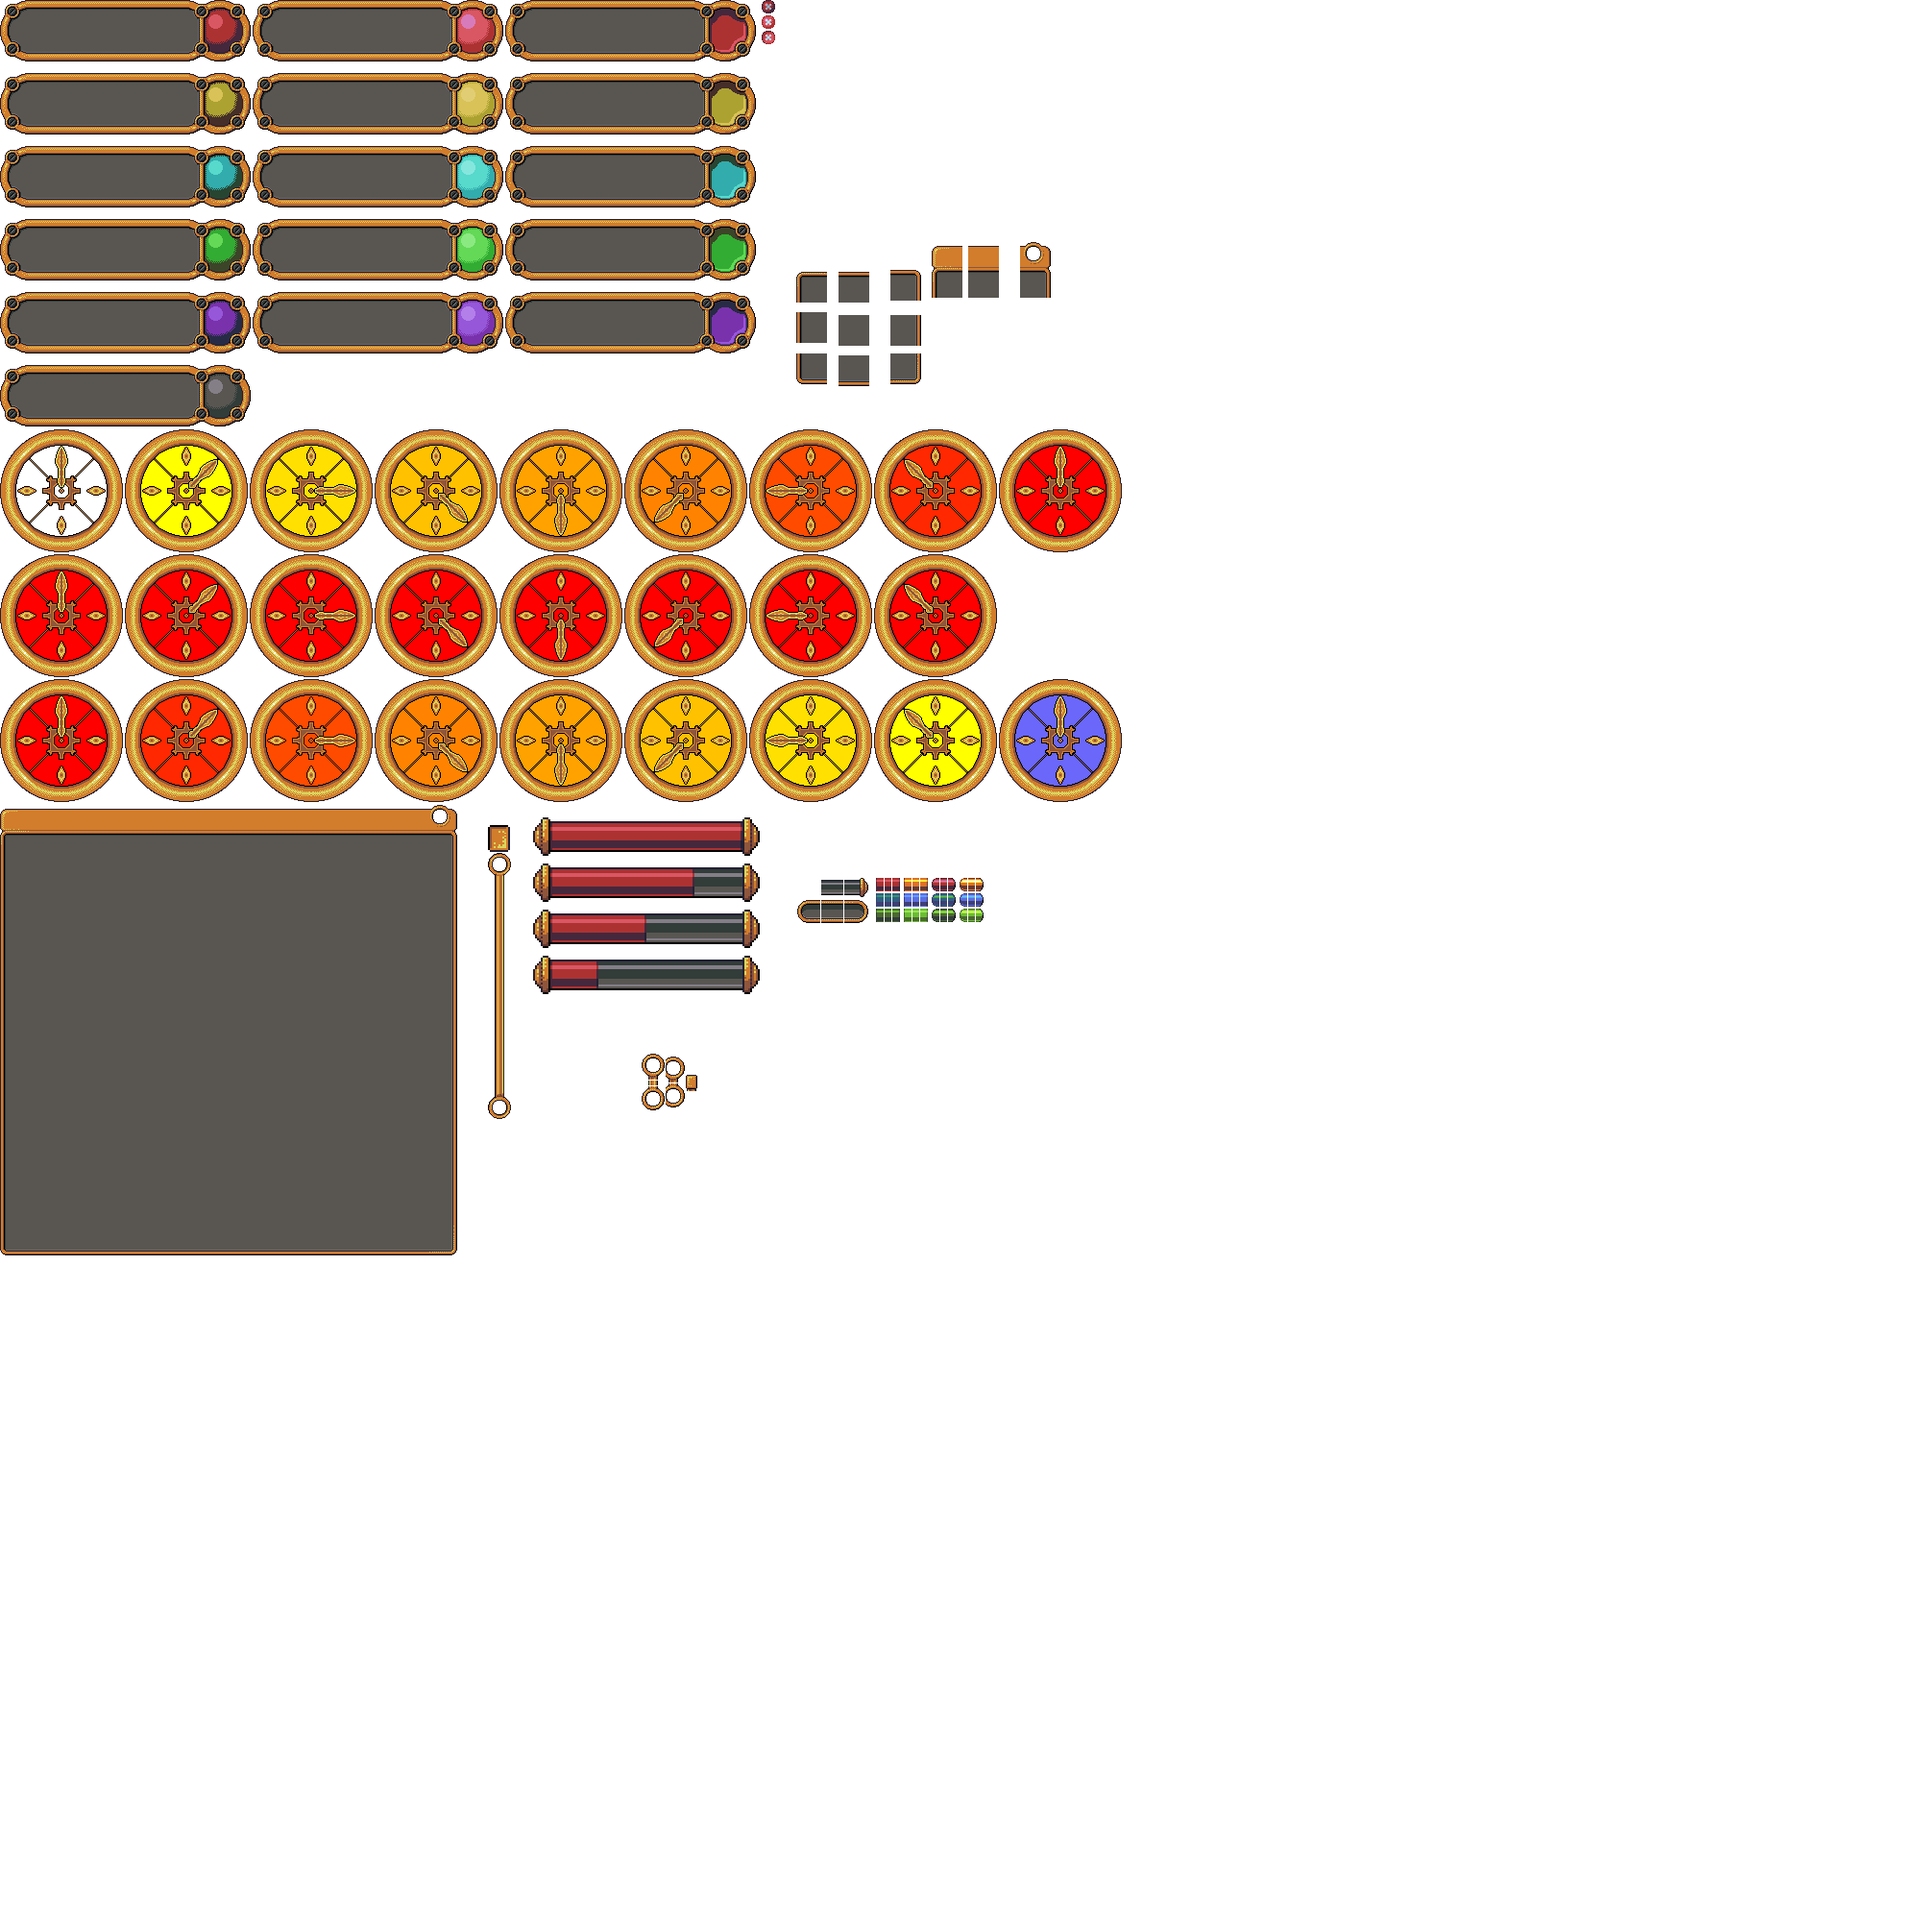
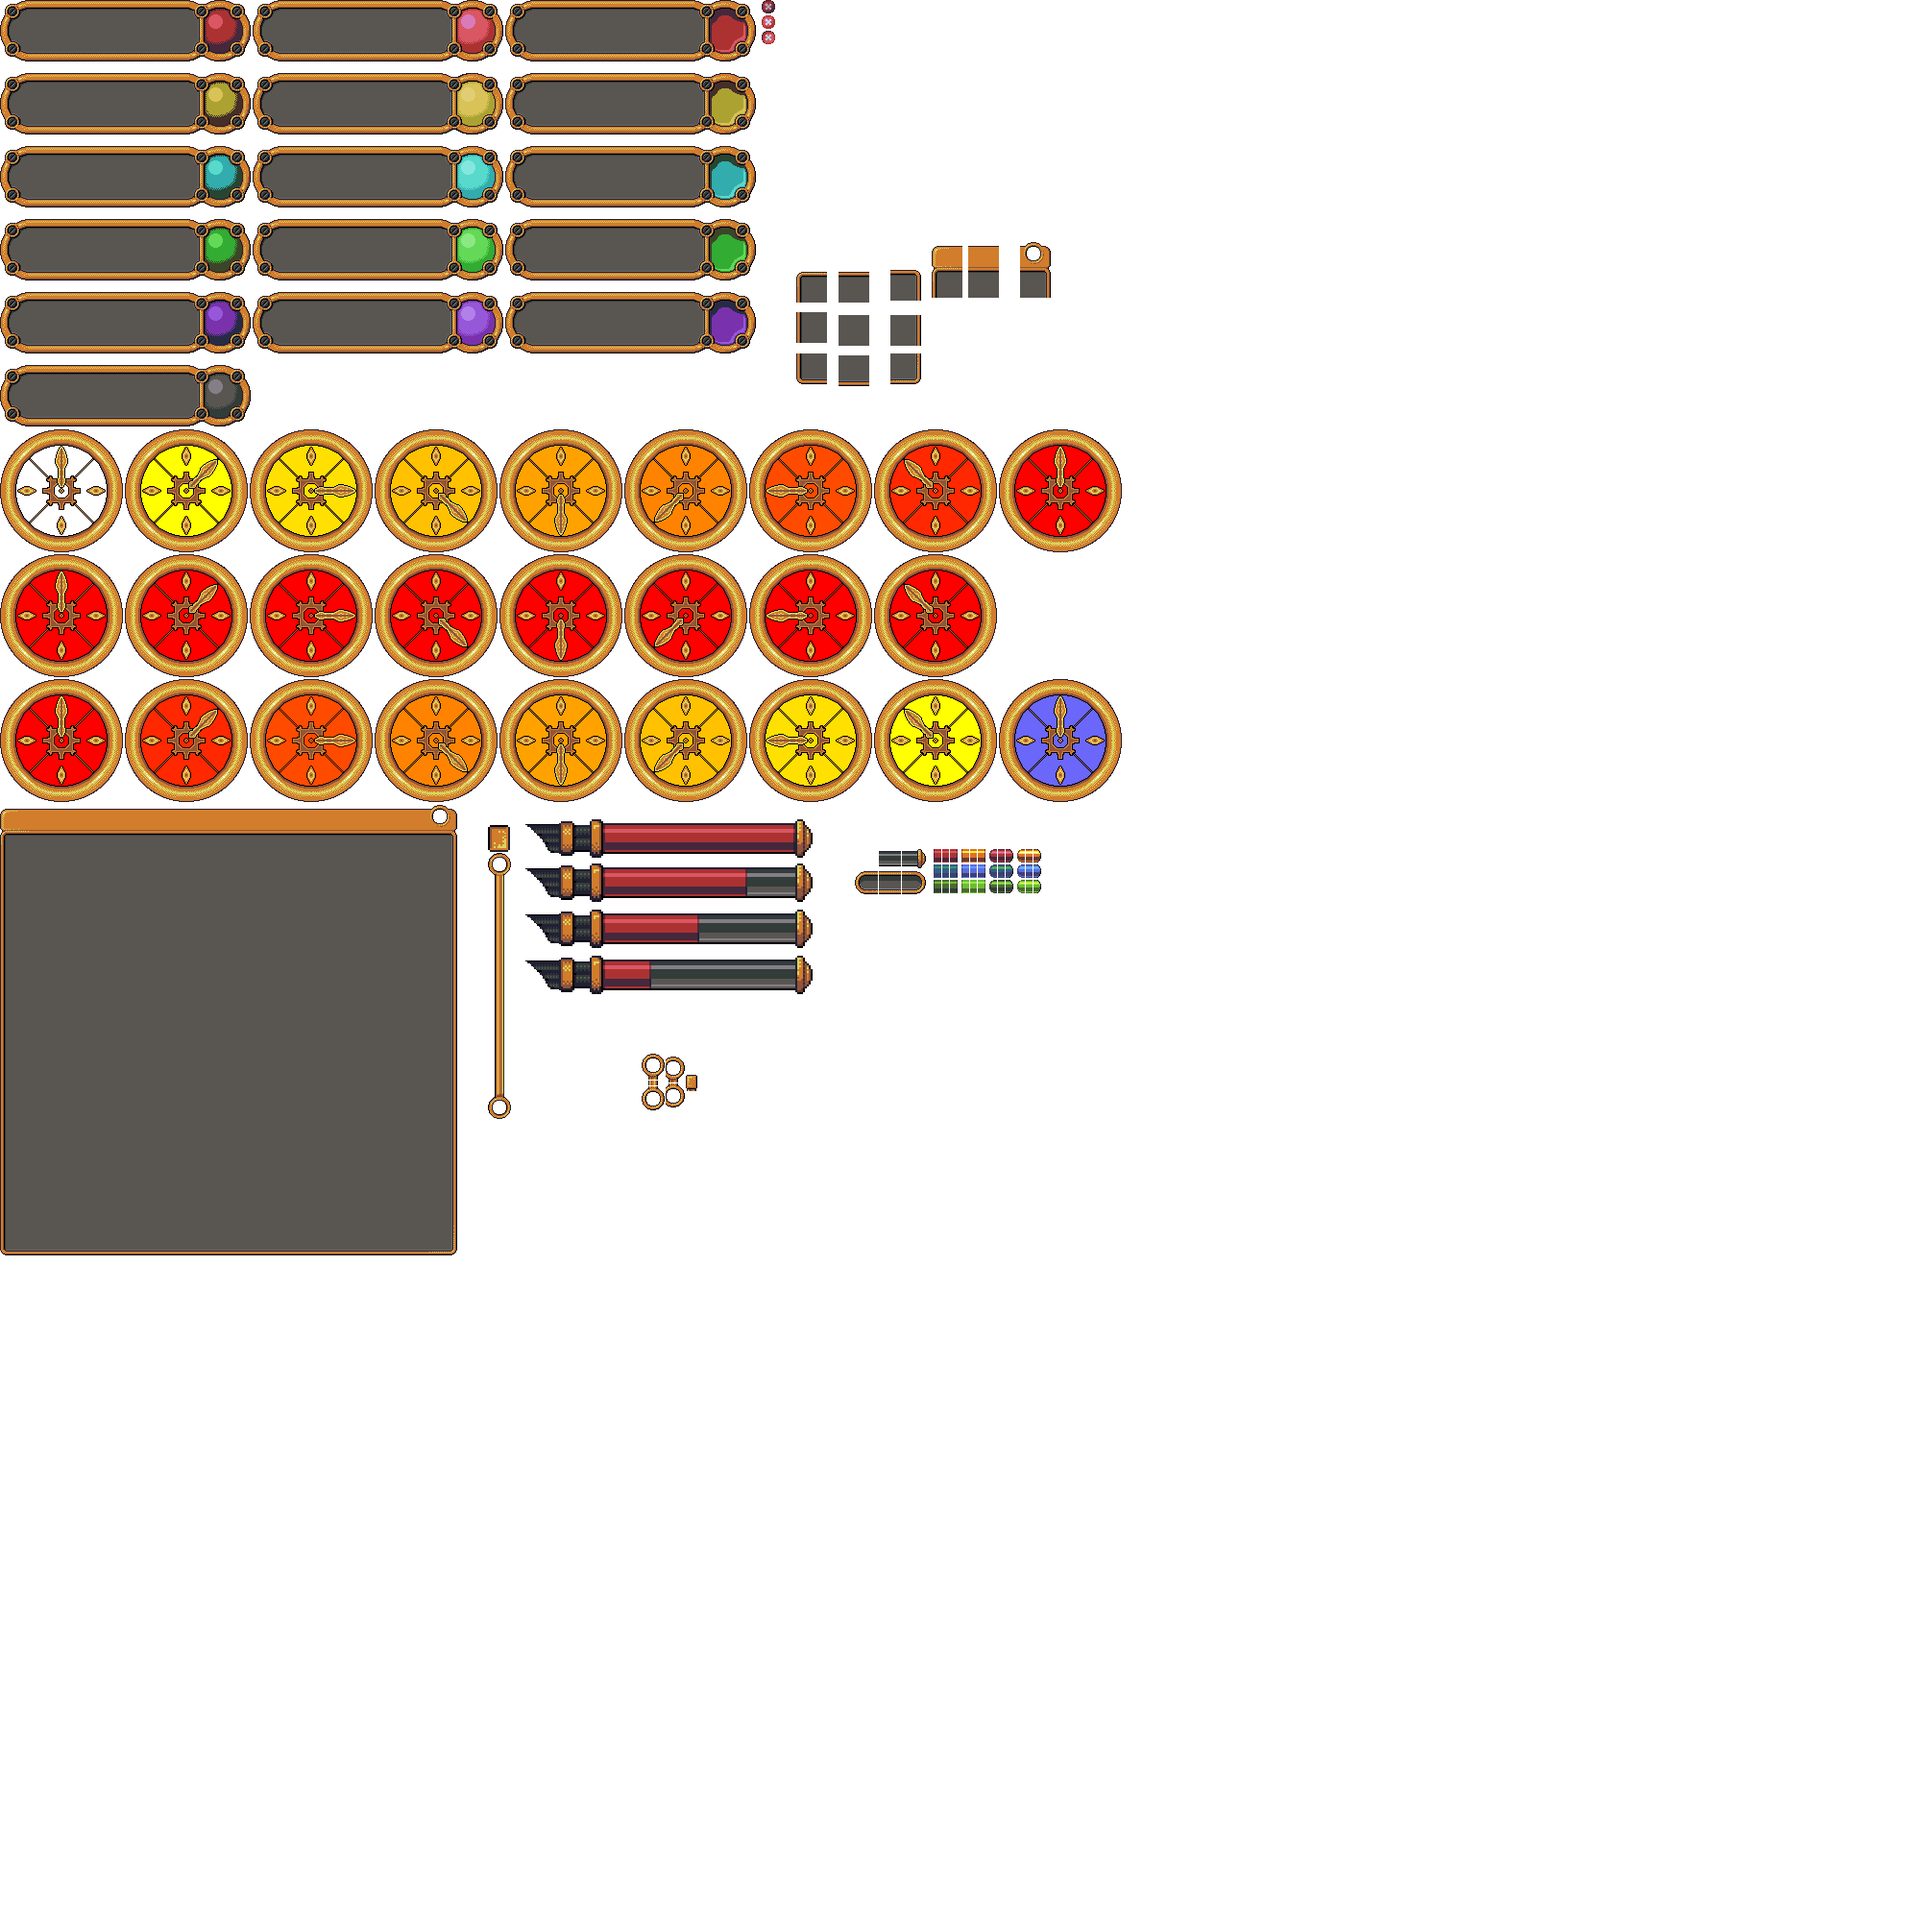
added lives to the player (they dont work since the player dies during the entire fading process aka more than one frame)

Changed region(s): [[0.279, 0.403, 0.558, 0.527]]

diff --git a/Dev_class5_Orthogonal/Motor2D/j1Gui.cpp b/Dev_class5_Orthogonal/Motor2D/j1Gui.cpp
@@ -22,6 +22,7 @@
 #include "InheritedLabel.h"
 #include "UIClock.h"
 #include "Scrollbar.h"
+#include "LifeBar.h"
 
 j1Gui::j1Gui() : j1Module()
 {
@@ -190,9 +191,16 @@ bool j1Gui::CleanUp()
 
 
 
-InheritedImage* j1Gui::AddImage(SDL_Rect& position, iPoint positionOffset, SDL_Rect & section, bool draggable)
+InheritedImage* j1Gui::AddImage(SDL_Rect& position, iPoint positionOffset, SDL_Rect& section, bool draggable)
 {
 	InheritedImage* ret = new InheritedImage(position, positionOffset, section, draggable);
+	elements.add(ret);
+	return ret;
+}
+
+LifeBar* j1Gui::AddLifebar(SDL_Rect& position, iPoint positionOffset, SDL_Rect& section, bool draggable)
+{
+	LifeBar* ret = new LifeBar(position, positionOffset, section, draggable);
 	elements.add(ret);
 	return ret;
 }
@@ -516,10 +524,30 @@ UIElement* j1Gui::Load_Image_fromXML(pugi::xml_node node)
 	iPoint relativePos = { node.child("relativePosition").attribute("x").as_int(),node.child("relativePosition").attribute("y").as_int() };
 	SDL_Rect image_section = { node.child("image_section").attribute("x").as_int(), node.child("image_section").attribute("y").as_int(), node.child("image_section").attribute("w").as_int(), node.child("image_section").attribute("h").as_int() };
 	bool draggable = node.child("draggable").attribute("value").as_bool();
-	Image* added = AddImage(position, relativePos, image_section, draggable);
-	if (!node.child("active").attribute("value").as_bool(true))
-		added->active = false;
-	return added;
+
+	if (node.child("lifebar").attribute("value").as_bool(false))
+	{
+		LifeBar* added = AddLifebar(position, relativePos, image_section, draggable);
+
+		Load_LifeBar_formXML(node, added);
+
+		if (!node.child("active").attribute("value").as_bool(true))
+			added->active = false;
+
+		App->scene->lifebar = added;
+
+		return added;
+	}
+	else
+	{
+		Image* added = AddImage(position, relativePos, image_section, draggable);
+
+		if (!node.child("active").attribute("value").as_bool(true))
+			added->active = false;
+
+
+		return added;
+	}
 }
 
 UIElement* j1Gui::Load_AlterantiveImage_fromXML(pugi::xml_node node)
@@ -625,6 +653,14 @@ UIElement * j1Gui::Load_LabelledImage_fromXML(pugi::xml_node node)
 	if (!node.child("active").attribute("value").as_bool(true))
 		ret->active = false;
 	return ret;
+}
+
+void j1Gui::Load_LifeBar_formXML(pugi::xml_node node, LifeBar* imageData)
+{
+	imageData->threeLivesImageSection = { node.child("threeLives").attribute("x").as_int(), node.child("threeLives").attribute("y").as_int(), node.child("threeLives").attribute("w").as_int(), node.child("threeLives").attribute("h").as_int() };
+	imageData->twoLivesImageSection = { node.child("twoLives").attribute("x").as_int(), node.child("twoLives").attribute("y").as_int(), node.child("twoLives").attribute("w").as_int(), node.child("twoLives").attribute("h").as_int() };
+	imageData->lastLifeImageSection = { node.child("lastLife").attribute("x").as_int(), node.child("lastLife").attribute("y").as_int(), node.child("lastLife").attribute("w").as_int(), node.child("lastLife").attribute("h").as_int() };
+
 }
 
 Animation j1Gui::LoadPushbacks_fromXML(pugi::xml_node node)

diff --git a/Dev_class5_Orthogonal/Motor2D/j1Gui.h b/Dev_class5_Orthogonal/Motor2D/j1Gui.h
@@ -63,6 +63,7 @@ class Scrollbar;
 struct SDL_Rect;
 struct SDL_Texture;
 class Animation;
+class LifeBar;
 // ---------------------------------------------------
 class j1Gui : public j1Module
 {
@@ -95,6 +96,7 @@ public:
 	InheritedInteractive* AddInteractive(SDL_Rect& position, iPoint positionOffset, SDL_Rect& size,	 InteractiveType type, j1Module* callback, bool draggable = false);
 	InheritedLabel* AddLabel(SDL_Rect& position, iPoint positionOffset, p2SString fontPath, SDL_Color textColor, p2SString label, int size = 12, bool draggable = false);
 	InheritedImage* AddImage(SDL_Rect& position, iPoint positionOffset, SDL_Rect& section, bool draggable = false);
+	LifeBar* AddLifebar(SDL_Rect& position, iPoint positionOffset, SDL_Rect& section, bool draggable = false);
 
 	InteractiveImage* AddInteractiveImage(SDL_Rect& position, iPoint positionOffsetA, iPoint positionOffsetB, SDL_Rect image_section, InteractiveType type, j1Module* callback, bool draggable = false);
 	InteractiveLabel* AddInteractiveLabel(SDL_Rect& position, iPoint positionOffsetA, iPoint positionOffsetB, p2SString fontPath, SDL_Color textColor, p2SString label, int size, InteractiveType type, j1Module* callback, bool draggable = false);
@@ -122,6 +124,7 @@ public:
 	UIElement* Load_InteractiveImage_fromXML(pugi::xml_node node, j1Module* callback);
 	UIElement* Load_Scrollbar_fromXML(pugi::xml_node node);
 	UIElement* Load_LabelledImage_fromXML(pugi::xml_node node);
+	void Load_LifeBar_formXML(pugi::xml_node node, LifeBar* imageData);
 	Animation LoadPushbacks_fromXML(pugi::xml_node node);
 
 

diff --git a/Dev_class5_Orthogonal/Motor2D/Player.cpp b/Dev_class5_Orthogonal/Motor2D/Player.cpp
@@ -7,11 +7,15 @@
 #include "j1Audio.h"
 #include "j1Input.h"
 #include "j1SceneChange.h"
+#include "j1SceneSwitch.h"
 #include "j1Scene.h"
+#include "j1IntroScene.h"
 #include "j1EntityController.h"
+#include "LifeBar.h"
 
 Player::Player() : Entity(entityType::PLAYER)
 {
+	lives = 4;
 }
 
 
@@ -215,7 +219,6 @@ bool Player::Update(float dt)
 		PositionCollider();
 	}
 
-	LOG("Current animation Speed: %f", Current_Animation->speed);
 	/*LOG("CurrenFrame: %f", Current_Animation->GetCurrentFrameinFloat());
 	LOG("CurrentAnimation speed: %f", Current_Animation->speed);*/
 	return true;
@@ -225,7 +228,14 @@ bool Player::PostUpdate()
 {
 	if (!alive)
 	{
-		App->scenechange->ChangeMap(App->scene->currentMap, App->scene->fade_time);
+		lives -= 1;
+		LOG("lives %i", lives);
+		App->scene->playerLives = lives;
+		if (lives == 0)
+			App->scenechange->ChangeMap(App->scene->currentMap, App->scene->fade_time);
+		else
+			App->sceneswitch->SwitchScene(App->scene, App->introscene);
+
 	}
 
 	PositionCameraOnPlayer();
@@ -327,6 +337,7 @@ void Player::Restart()
 				}
 	isDying = false;
 	alive = true;
+
 
 }
 

diff --git a/Dev_class5_Orthogonal/Motor2D/LifeBar.cpp b/Dev_class5_Orthogonal/Motor2D/LifeBar.cpp
@@ -1,0 +1,47 @@
+#include "LifeBar.h"
+#include "p2log.h"
+#include "j1Scene.h"
+#include "j1App.h"
+
+LifeBar::LifeBar(SDL_Rect& position, iPoint positionOffset, SDL_Rect & image_section, bool draggable) : Image(position, positionOffset, image_section), UIElement(position, draggable)
+{
+	fullHP = image_section;
+}
+
+
+LifeBar::~LifeBar()
+{
+}
+
+bool LifeBar::Draw(float dt)
+{
+	ChangeSection(App->scene->playerLives);
+	ImageDraw(image_section, dt);
+	return true;
+}
+
+void LifeBar::ChangeSection(int remainingLives)
+{
+	if (remainingLives == 3)
+	{
+		image_section = threeLivesImageSection;
+		LOG("entered");
+		LOG("threeLives x %i", threeLivesImageSection.x);
+		LOG("threeLives y %i", threeLivesImageSection.y);
+		LOG("threeLives h %i", threeLivesImageSection.h);
+		LOG("threeLives w %i", threeLivesImageSection.w);
+
+	}
+	else if (remainingLives == 2)
+	{
+		image_section = twoLivesImageSection;
+	}
+	else if (remainingLives == 1)
+	{
+		image_section = lastLifeImageSection;
+	}
+	else
+	{
+		image_section = fullHP;
+	}
+}

diff --git a/Dev_class5_Orthogonal/Motor2D/j1Scene.cpp b/Dev_class5_Orthogonal/Motor2D/j1Scene.cpp
@@ -16,6 +16,7 @@
 #include "j1Pathfinding.h"
 #include "j1EntityController.h"
 #include "j1Gui.h"
+#include "LifeBar.h"
 
 j1Scene::j1Scene() : j1Module()
 {
@@ -71,7 +72,6 @@ bool j1Scene::Start()
 	to_end = false;
 	bool ret = App->map->Load_map(map_names.start->data->GetString());
 	App->audio->PlayMusic(App->map->data.musicFile.GetString());
-	LOG("Boi: %s", map_names.start->data->GetString());
 
 	int w, h;
 	uchar* data = NULL;
@@ -177,10 +177,7 @@ bool j1Scene::Update(float dt)
 	App->entitycontroller->Draw(dt);
 	App->gui->Draw(dt);
 
-	
 
-	//int x, y;
-	//App->input->GetMousePosition(x, y);
 	//iPoint p = App->render->ScreenToWorld(x, y);
 	//p = App->map->WorldToMap(p.x, p.y);
 	//p2SString title("%i %i", p.x, p.y);

diff --git a/Dev_class5_Orthogonal/Motor2D/LifeBar.h b/Dev_class5_Orthogonal/Motor2D/LifeBar.h
@@ -1,0 +1,22 @@
+#ifndef __LIFEBAR_H__
+#define __LIFEBAR_H__
+
+#include "Image.h"
+
+class LifeBar : public Image
+{
+public:
+	LifeBar(SDL_Rect& position, iPoint positionOffset, SDL_Rect &image_section, bool draggable);
+	~LifeBar();
+
+	bool Draw(float dt);
+	void ChangeSection(int remainingLives);
+public:
+	SDL_Rect fullHP;
+	SDL_Rect threeLivesImageSection;
+	SDL_Rect twoLivesImageSection;
+	SDL_Rect lastLifeImageSection;
+
+};
+
+#endif

diff --git a/Dev_class5_Orthogonal/Motor2D/j1Scene.h b/Dev_class5_Orthogonal/Motor2D/j1Scene.h
@@ -6,6 +6,7 @@
 
 struct SDL_Texture;
 class Window;
+class LifeBar;
 
 enum ListOfMapNames
 {
@@ -52,6 +53,7 @@ public:
 
 
 public:
+	LifeBar* lifebar = nullptr;
 	Window* sceneMenu = nullptr;
 	SDL_Texture* debug_tex;
 	iPoint test;
@@ -60,6 +62,7 @@ public:
 	int currentMap;
 	int currentTime = 0;
 	int pastFrameTime = 0;
+	int playerLives = 4;
 	p2List<p2SString*> map_names;
 	float fade_time;
 	bool to_end;

diff --git a/Dev_class5_Orthogonal/Motor2D/Player.h b/Dev_class5_Orthogonal/Motor2D/Player.h
@@ -90,6 +90,7 @@ private:
 
 	iPoint jumpForce;
 	iPoint			dashingSpeed;
+	int lives;
 	int Dashtime;
 	float currentDashtime = 0;
 	Animation		idle;
